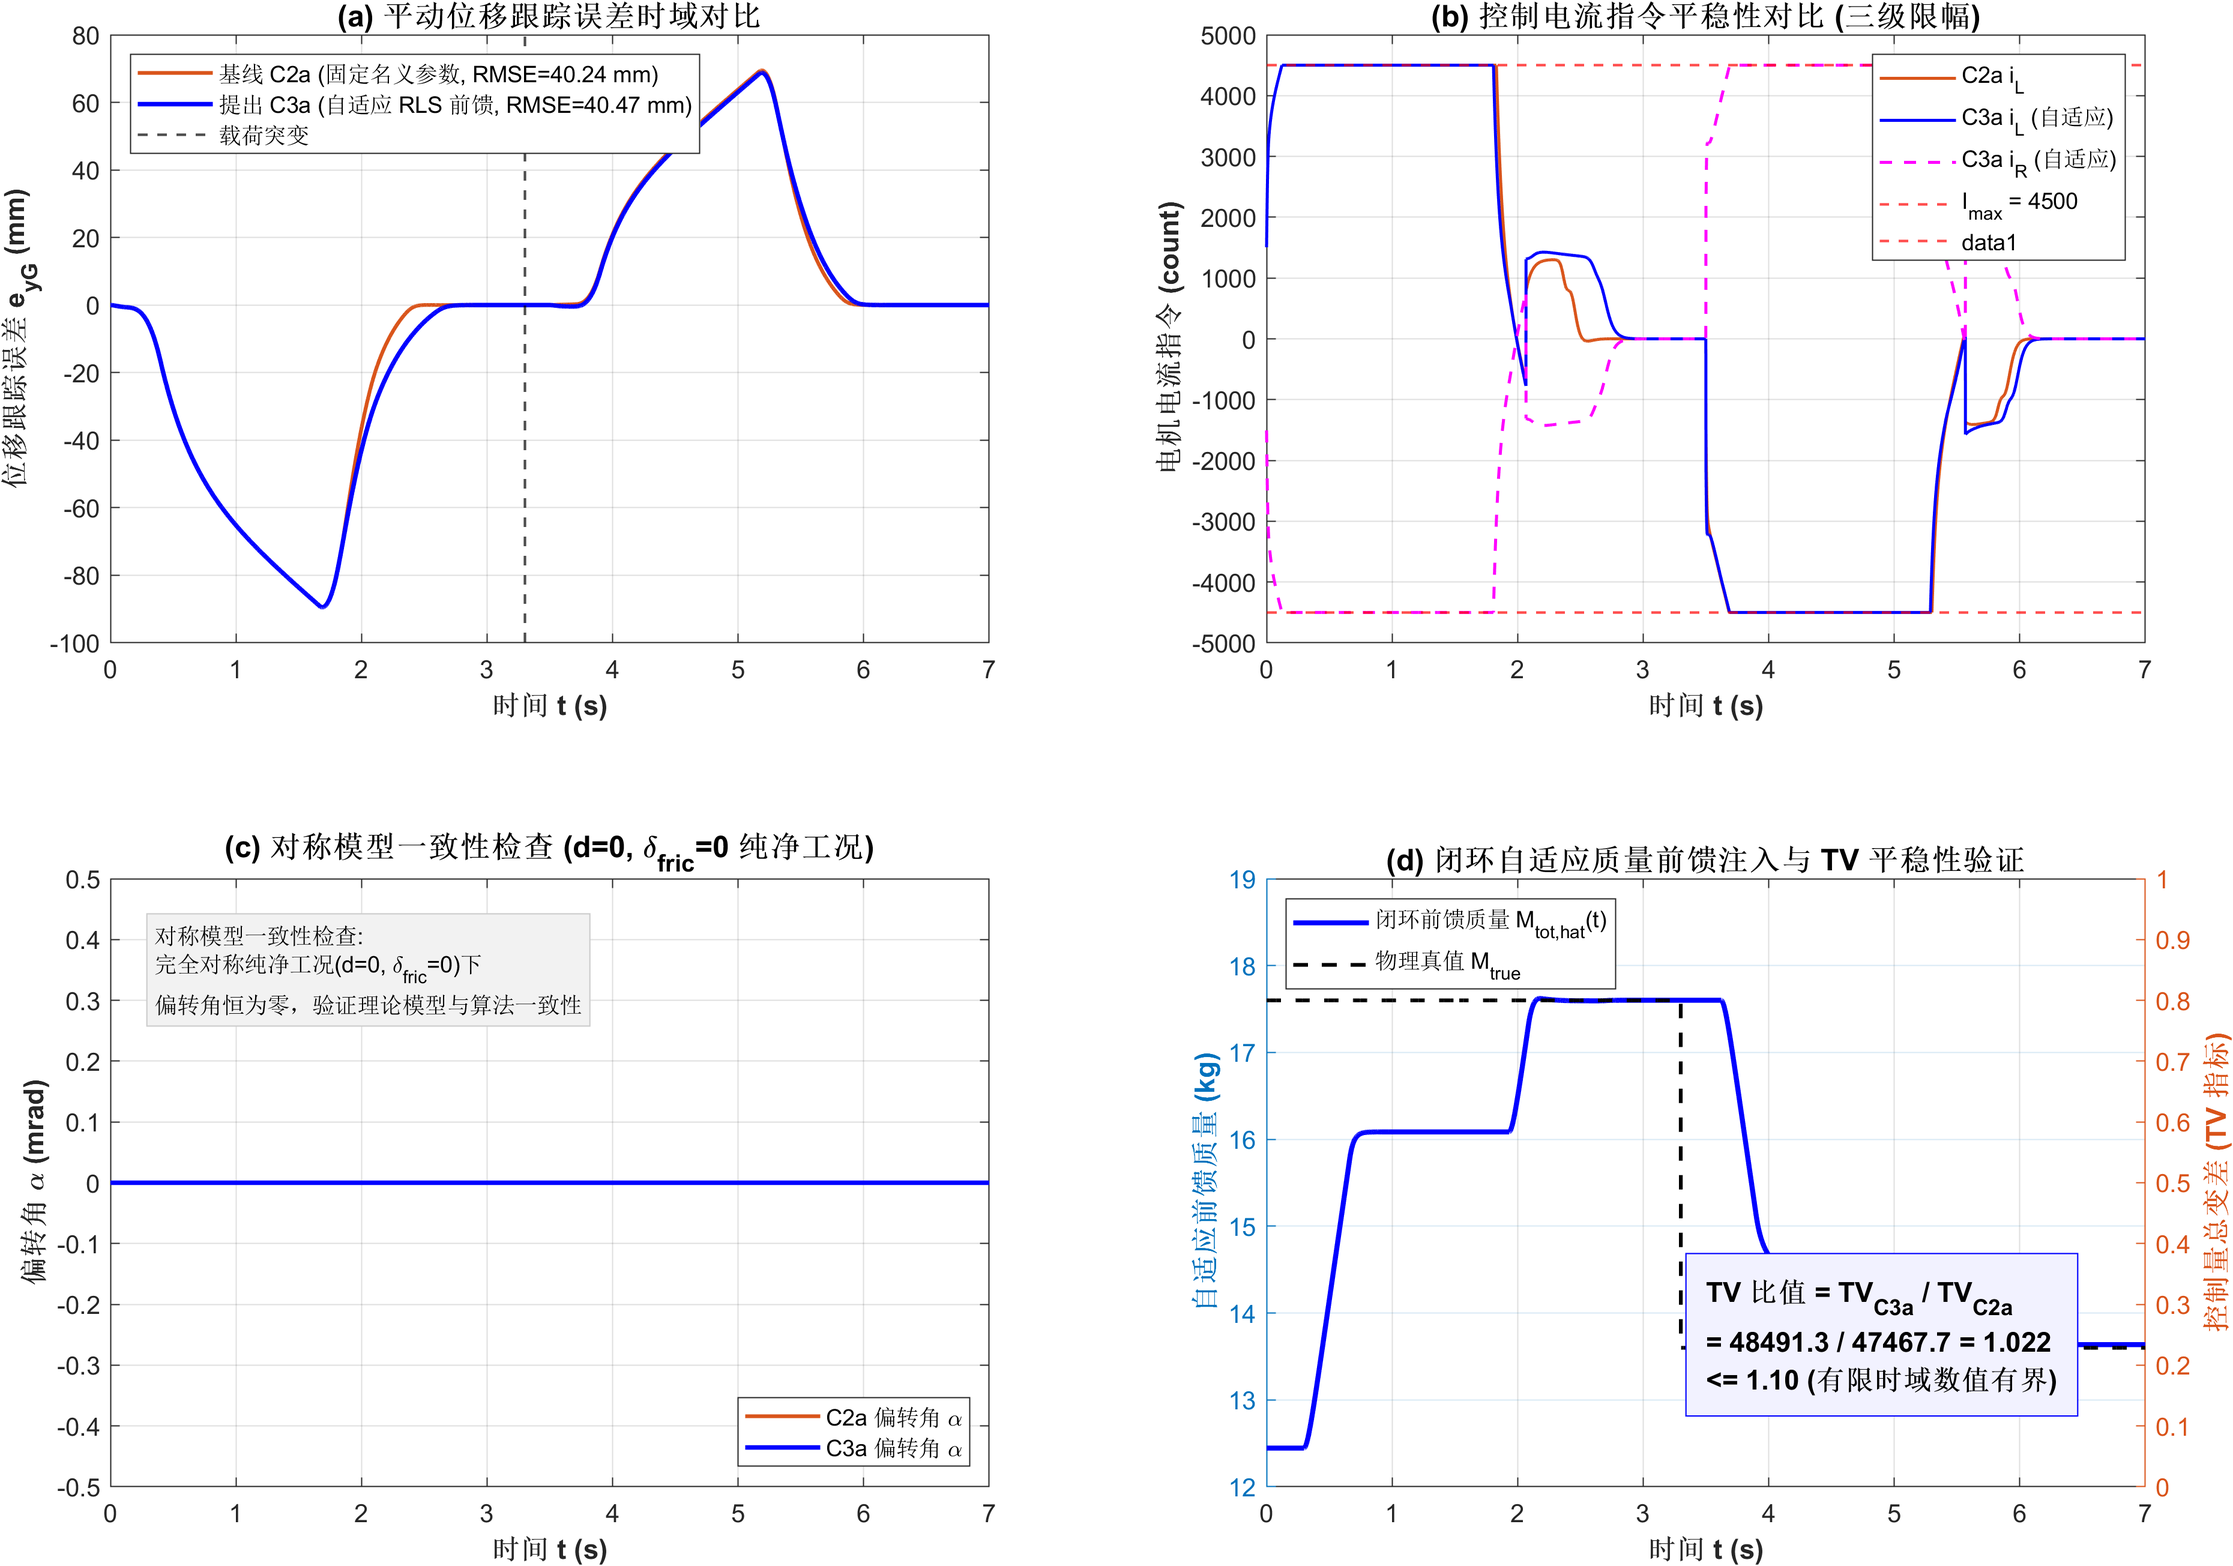
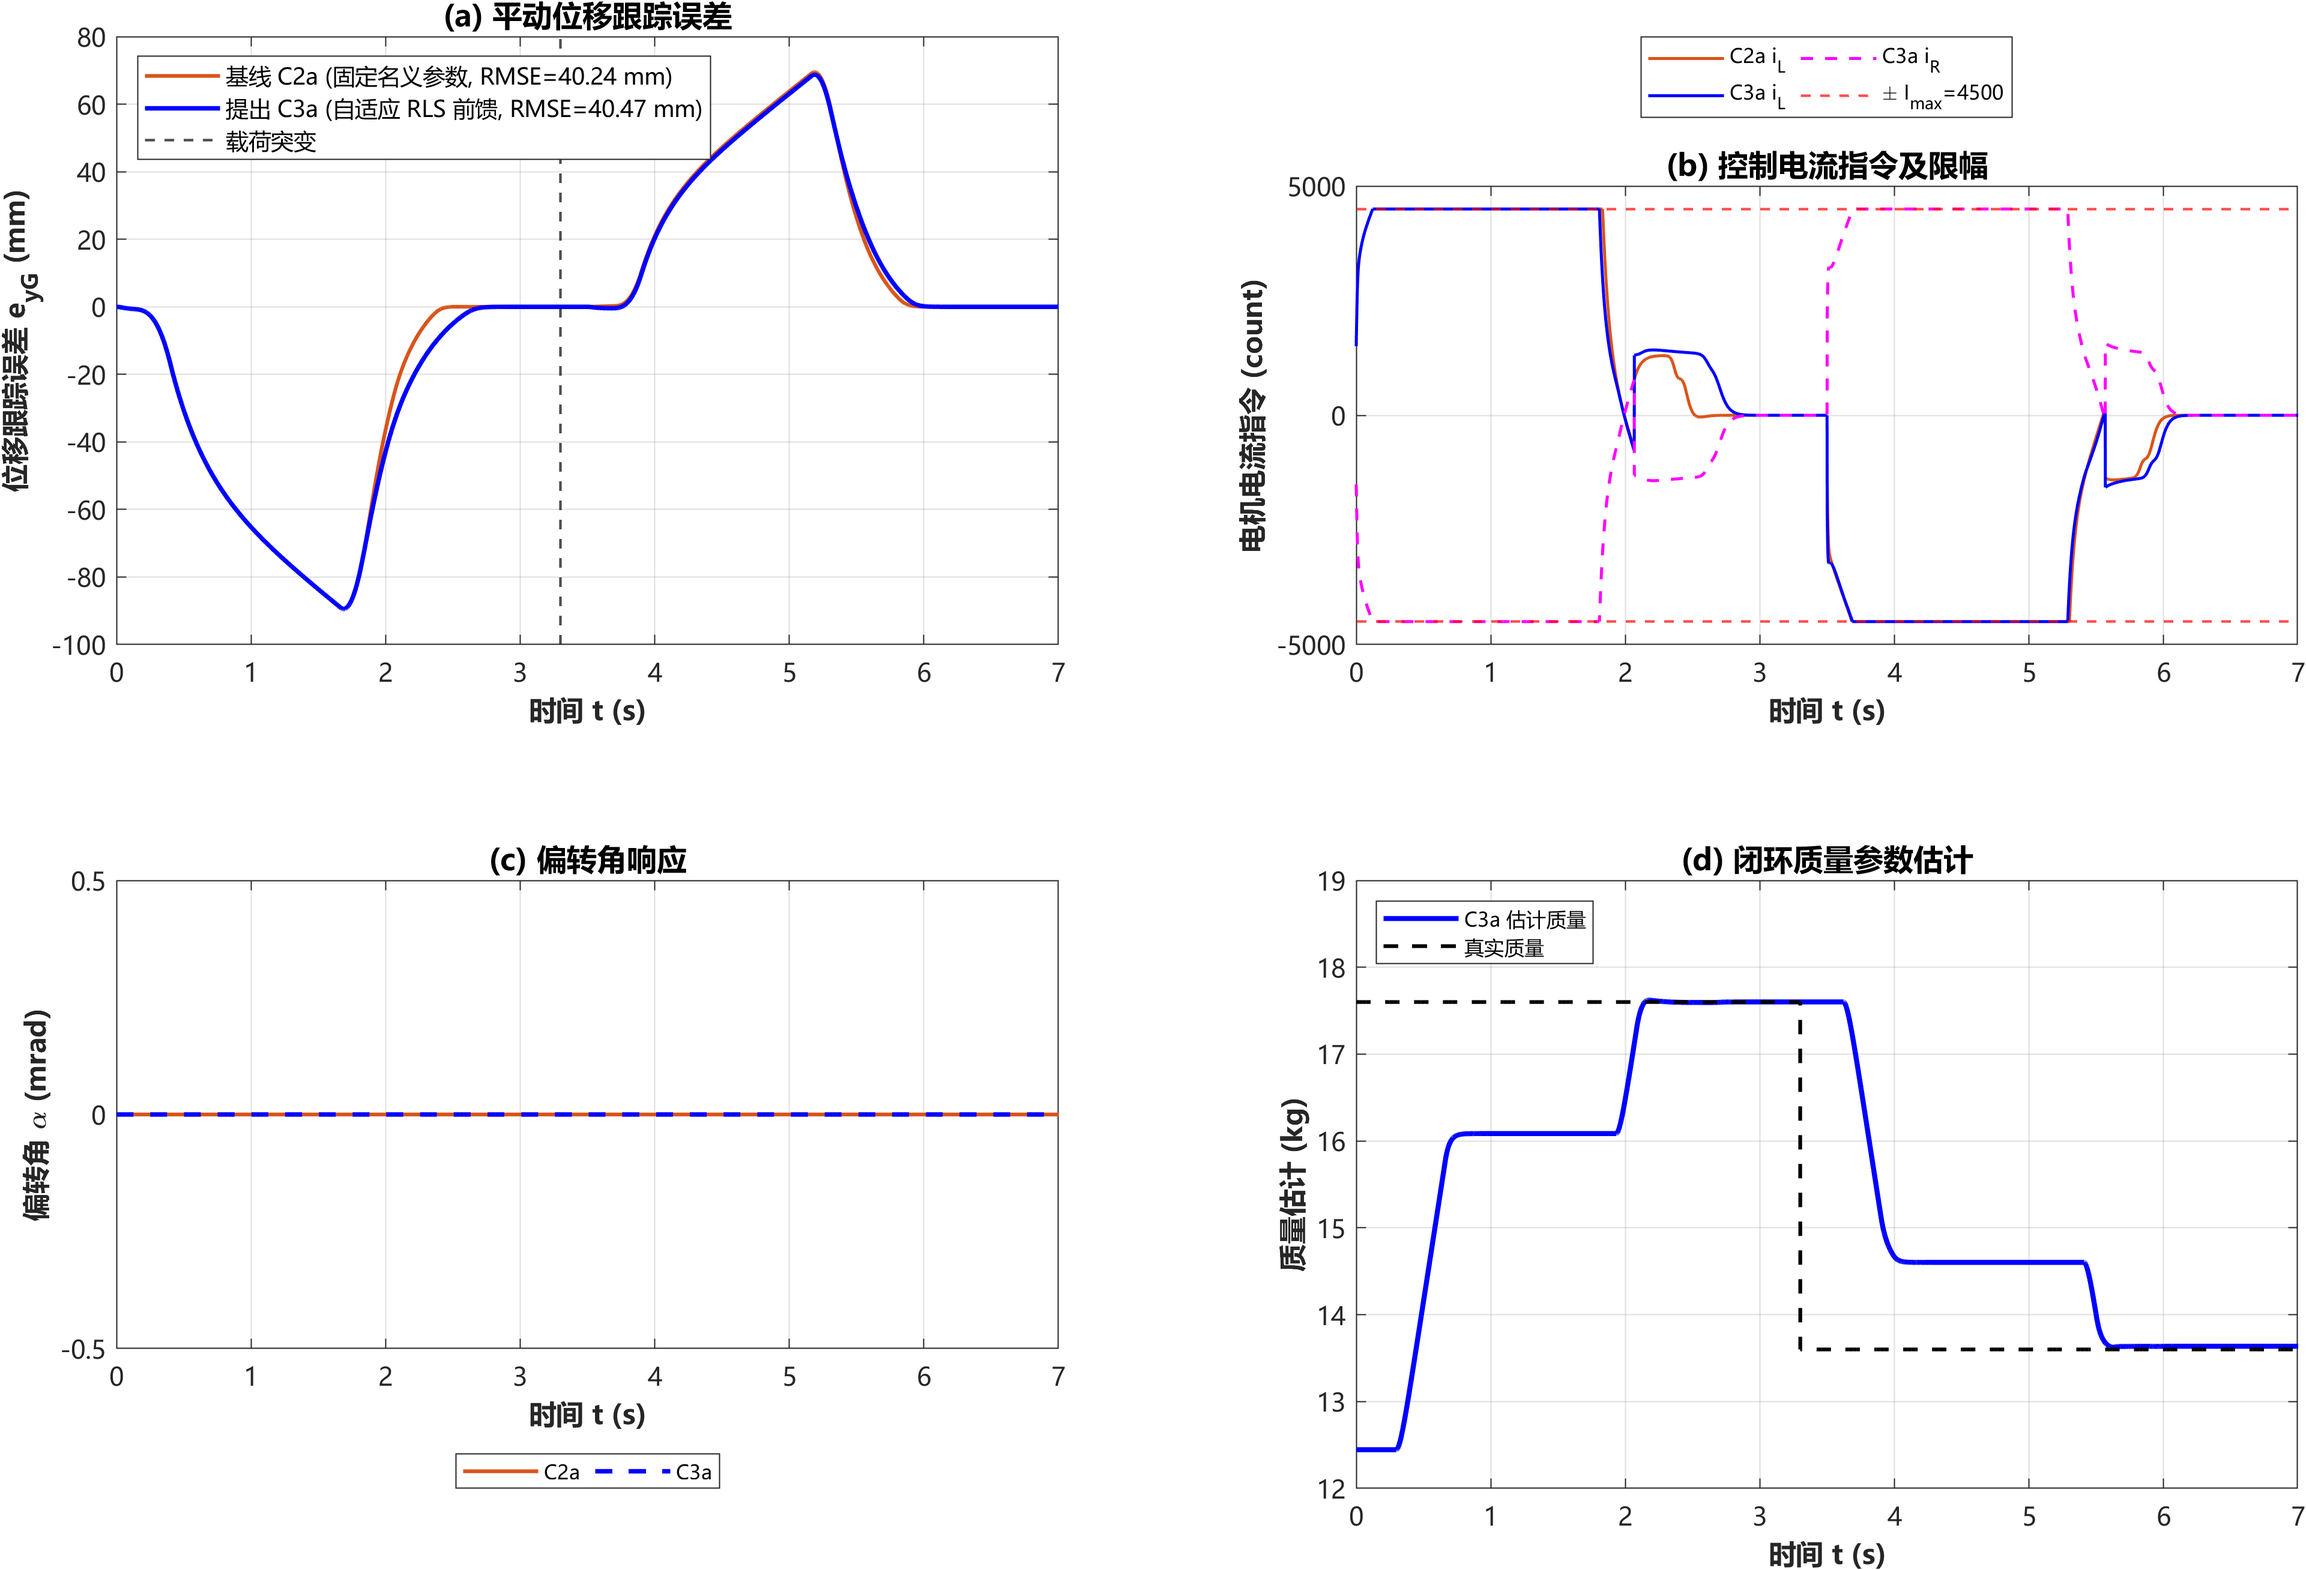
fix(step3a): refine closed-loop comparison plot layout and remove text annotations

diff --git a/step3_adaptive_rls/run_step3a_benchmark.m b/step3_adaptive_rls/run_step3a_benchmark.m
@@ -11,6 +11,7 @@
 clear; clc; close all;
 
 ws_dir = fileparts(pwd);
+addpath(fullfile(ws_dir, 'common'));
 addpath(fullfile(ws_dir, 'step1_baseline_c0'));
 addpath(fullfile(ws_dir, 'step2_advanced_controllers'));
 addpath(pwd);
@@ -288,8 +289,13 @@ fprintf('  -> [OK] step3a_parameter_identification.png 保存完成\n');
 
 %% 5. 生成高学术规格图表 2: step3a_closed_loop_comparison.png
 fprintf('>>> 正在绘制学术图表 2: step3a_closed_loop_comparison.png ...\n');
+set(groot, ...
+    'defaultAxesFontName', 'Microsoft YaHei', ...
+    'defaultTextFontName', 'Microsoft YaHei', ...
+    'defaultLegendFontName', 'Microsoft YaHei');
+
 fig2 = figure('Name', 'Step3A_Closed_Loop_Comparison', 'Color', 'w', ...
-    'Units', 'pixels', 'Position', [100, 100, 1400, 950], 'Visible', 'off');
+    'Units', 'pixels', 'Position', [80, 80, 1500, 950], 'Visible', 'off');
 
 % Subplot 1: 位移跟踪误差比较
 subplot(2, 2, 1);
@@ -300,64 +306,118 @@ xline(3.3, 'k--', 'LineWidth', 1.0, 'DisplayName', '载荷突变');
 grid on; box on;
 xlabel('时间 t (s)', 'FontSize', 11, 'FontWeight', 'bold');
 ylabel('位移跟踪误差 e_{yG} (mm)', 'FontSize', 11, 'FontWeight', 'bold');
-title('(a) 平动位移跟踪误差时域对比', 'FontSize', 12, 'FontWeight', 'bold');
+title('(a) 平动位移跟踪误差', 'FontSize', 12, 'FontWeight', 'bold');
 legend('Location', 'northwest', 'FontSize', 9);
 
-% Subplot 2: 左右电机控制电流对比
+% Subplot 2: 左右电机控制电流对比及限幅
 subplot(2, 2, 2);
-plot(d3.t, d3.iL_cmd, 'Color', [0.85, 0.33, 0.10], 'LineWidth', 1.2, 'DisplayName', 'C2a i_L');
+
+hC2a = plot(d3.t, d3.iL_cmd, ...
+    'Color', [0.85, 0.33, 0.10], ...
+    'LineWidth', 1.2, ...
+    'DisplayName', 'C2a i_L');
 hold on;
-plot(d3.t, log_iL_c3a, 'b-', 'LineWidth', 1.2, 'DisplayName', 'C3a i_L (自适应)');
-plot(d3.t, log_iR_c3a, 'm--', 'LineWidth', 1.2, 'DisplayName', 'C3a i_R (自适应)');
-yline(4500, 'r--', 'LineWidth', 1.0, 'DisplayName', 'I_{max} = 4500');
-yline(-4500, 'r--', 'LineWidth', 1.0);
+
+hC3aL = plot(d3.t, log_iL_c3a, ...
+    'b-', 'LineWidth', 1.2, ...
+    'DisplayName', 'C3a i_L');
+
+hC3aR = plot(d3.t, log_iR_c3a, ...
+    'm--', 'LineWidth', 1.2, ...
+    'DisplayName', 'C3a i_R');
+
+hImax = yline(4500, 'r--', ...
+    'LineWidth', 1.0, ...
+    'HandleVisibility', 'on');
+
+% 负限幅线不进入图例
+yline(-4500, 'r--', ...
+    'LineWidth', 1.0, ...
+    'HandleVisibility', 'off');
+
 grid on; box on;
 xlabel('时间 t (s)', 'FontSize', 11, 'FontWeight', 'bold');
 ylabel('电机电流指令 (count)', 'FontSize', 11, 'FontWeight', 'bold');
-title('(b) 控制电流指令平稳性对比 (三级限幅)', 'FontSize', 12, 'FontWeight', 'bold');
-legend('Location', 'northeast', 'FontSize', 9);
+title('(b) 控制电流指令及限幅', 'FontSize', 12, 'FontWeight', 'bold');
+
+legend([hC2a, hC3aL, hC3aR, hImax], ...
+    {'C2a i_L', 'C3a i_L', 'C3a i_R', '\pm I_{max}=4500'}, ...
+    'Location', 'northoutside', ...
+    'NumColumns', 2, ...
+    'FontSize', 8);
 ylim([-5000, 5000]);
 
-% Subplot 3: 偏转角时域收敛 (对称模型一致性检查)
+% Subplot 3: 偏转角响应
 subplot(2, 2, 3);
-plot(d3.t, d3.alpha * 1e3, 'Color', [0.85, 0.33, 0.10], 'LineWidth', 1.5, 'DisplayName', 'C2a 偏转角 \alpha');
+
+hAlphaC2a = plot(d3.t, d3.alpha * 1e3, ...
+    'Color', [0.85, 0.33, 0.10], ...
+    'LineStyle', '-', ...
+    'LineWidth', 1.5, ...
+    'DisplayName', 'C2a');
+
 hold on;
-plot(d3.t, log_alpha_c3a * 1e3, 'b-', 'LineWidth', 1.8, 'DisplayName', 'C3a 偏转角 \alpha');
-text(0.05, 0.85, sprintf('对称模型一致性检查:\n完全对称纯净工况(d=0, \\delta_{fric}=0)下\n偏转角恒为零，验证理论模型与算法一致性'), ...
-    'Units', 'normalized', 'FontSize', 9, 'BackgroundColor', [0.95, 0.95, 0.95], 'EdgeColor', [0.8, 0.8, 0.8]);
-grid on; box on;
+
+hAlphaC3a = plot(d3.t, log_alpha_c3a * 1e3, ...
+    'Color', 'b', ...
+    'LineStyle', '--', ...
+    'LineWidth', 1.8, ...
+    'DisplayName', 'C3a');
+
+grid on;
+box on;
+
 xlabel('时间 t (s)', 'FontSize', 11, 'FontWeight', 'bold');
 ylabel('偏转角 \alpha (mrad)', 'FontSize', 11, 'FontWeight', 'bold');
-title('(c) 对称模型一致性检查 (d=0, \delta_{fric}=0 纯净工况)', 'FontSize', 12, 'FontWeight', 'bold');
-legend('Location', 'southeast', 'FontSize', 9);
+title('(c) 偏转角响应', 'FontSize', 12, 'FontWeight', 'bold');
+
+legend([hAlphaC2a, hAlphaC3a], ...
+    {'C2a', 'C3a'}, ...
+    'Location', 'southoutside', ...
+    'NumColumns', 2, ...
+    'FontSize', 8);
+
 ylim([-0.5, 0.5]);
 
-% Subplot 4: 控制动作平滑度 (TV) 与闭环质量自适应历程
+% Subplot 4: 闭环质量参数估计
 subplot(2, 2, 4);
-yyaxis left;
-plot(d3.t, log_M_est_cl, 'b-', 'LineWidth', 2.0, 'DisplayName', '闭环前馈质量 M_{tot,hat}(t)');
+
+hMEst = plot(d3.t, log_M_est_cl, ...
+    'b-', ...
+    'LineWidth', 2.0, ...
+    'DisplayName', 'C3a 估计质量');
+
 hold on;
-plot(d3.t, d3.M_true, 'k--', 'LineWidth', 1.5, 'DisplayName', '物理真值 M_{true}');
-ylabel('自适应前馈质量 (kg)', 'FontSize', 11, 'FontWeight', 'bold');
-ylim([12, 19]);
 
-yyaxis right;
-bar_tv = [tv_c2a, tv_c3a];
-% 绘制平稳性小柱状图或文字说明
-text(0.5, 0.25, sprintf('TV 比值 = TV_{C3a} / TV_{C2a}\n= %.1f / %.1f = %.3f\n<= 1.10 (有限时域数值有界)', ...
-    tv_c3a, tv_c2a, tv_ratio), 'Units', 'normalized', ...
-    'FontSize', 11, 'FontWeight', 'bold', 'BackgroundColor', [0.95, 0.95, 1.0], ...
-    'EdgeColor', 'b', 'Margin', 8);
-ylabel('控制量总变差 (TV 指标)', 'FontSize', 11, 'FontWeight', 'bold');
+hMTrue = plot(d3.t, d3.M_true, ...
+    'k--', ...
+    'LineWidth', 1.5, ...
+    'DisplayName', '真实质量');
 
-grid on; box on;
+grid on;
+box on;
+
 xlabel('时间 t (s)', 'FontSize', 11, 'FontWeight', 'bold');
-title('(d) 闭环自适应质量前馈注入与 TV 平稳性验证', 'FontSize', 12, 'FontWeight', 'bold');
-legend('Location', 'northwest', 'FontSize', 9);
+ylabel('质量估计 (kg)', 'FontSize', 11, 'FontWeight', 'bold');
+
+title('(d) 闭环质量参数估计', ...
+    'FontSize', 12, ...
+    'FontWeight', 'bold');
+
+legend([hMEst, hMTrue], ...
+    {'C3a 估计质量', '真实质量'}, ...
+    'Location', 'northwest', ...
+    'FontSize', 8);
+
+ylim([12, 19]);
 
 exportgraphics(fig2, 'step3a_closed_loop_comparison.png', 'Resolution', 300);
 close(fig2);
-fprintf('  -> [OK] step3a_closed_loop_comparison.png 保存完成\n');
+doc_fig_dir = fullfile(pwd, '..', 'docs', 'figures');
+if exist(doc_fig_dir, 'dir')
+    copyfile('step3a_closed_loop_comparison.png', fullfile(doc_fig_dir, 'step3a_closed_loop_comparison.png'));
+end
+fprintf('  -> [OK] step3a_closed_loop_comparison.png 保存完成 (并已同步归档到 docs/figures)\n');
 
 %% 6. 导出 step3a_metrics_summary.csv (分列记录开环离线回放与 C3a 闭环辨识)
 fprintf('>>> 正在导出 step3a_metrics_summary.csv ...\n');
